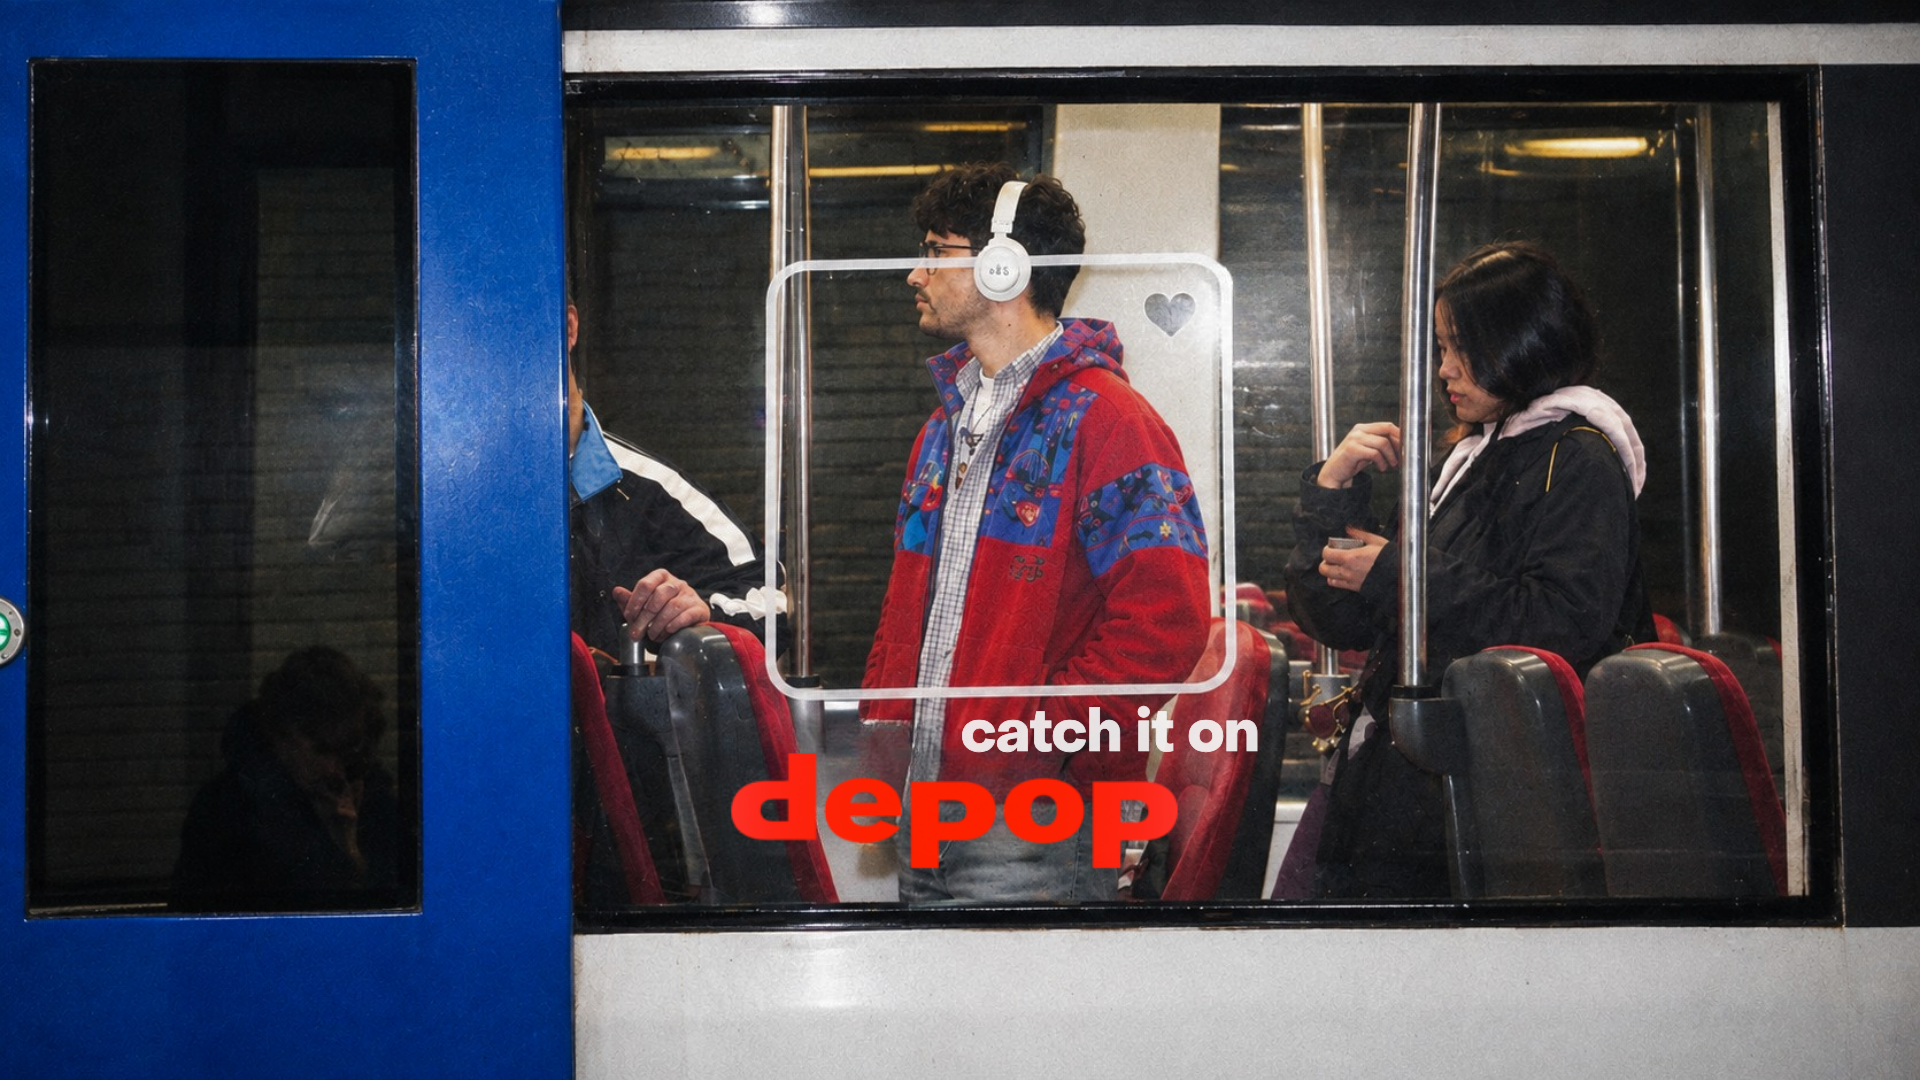
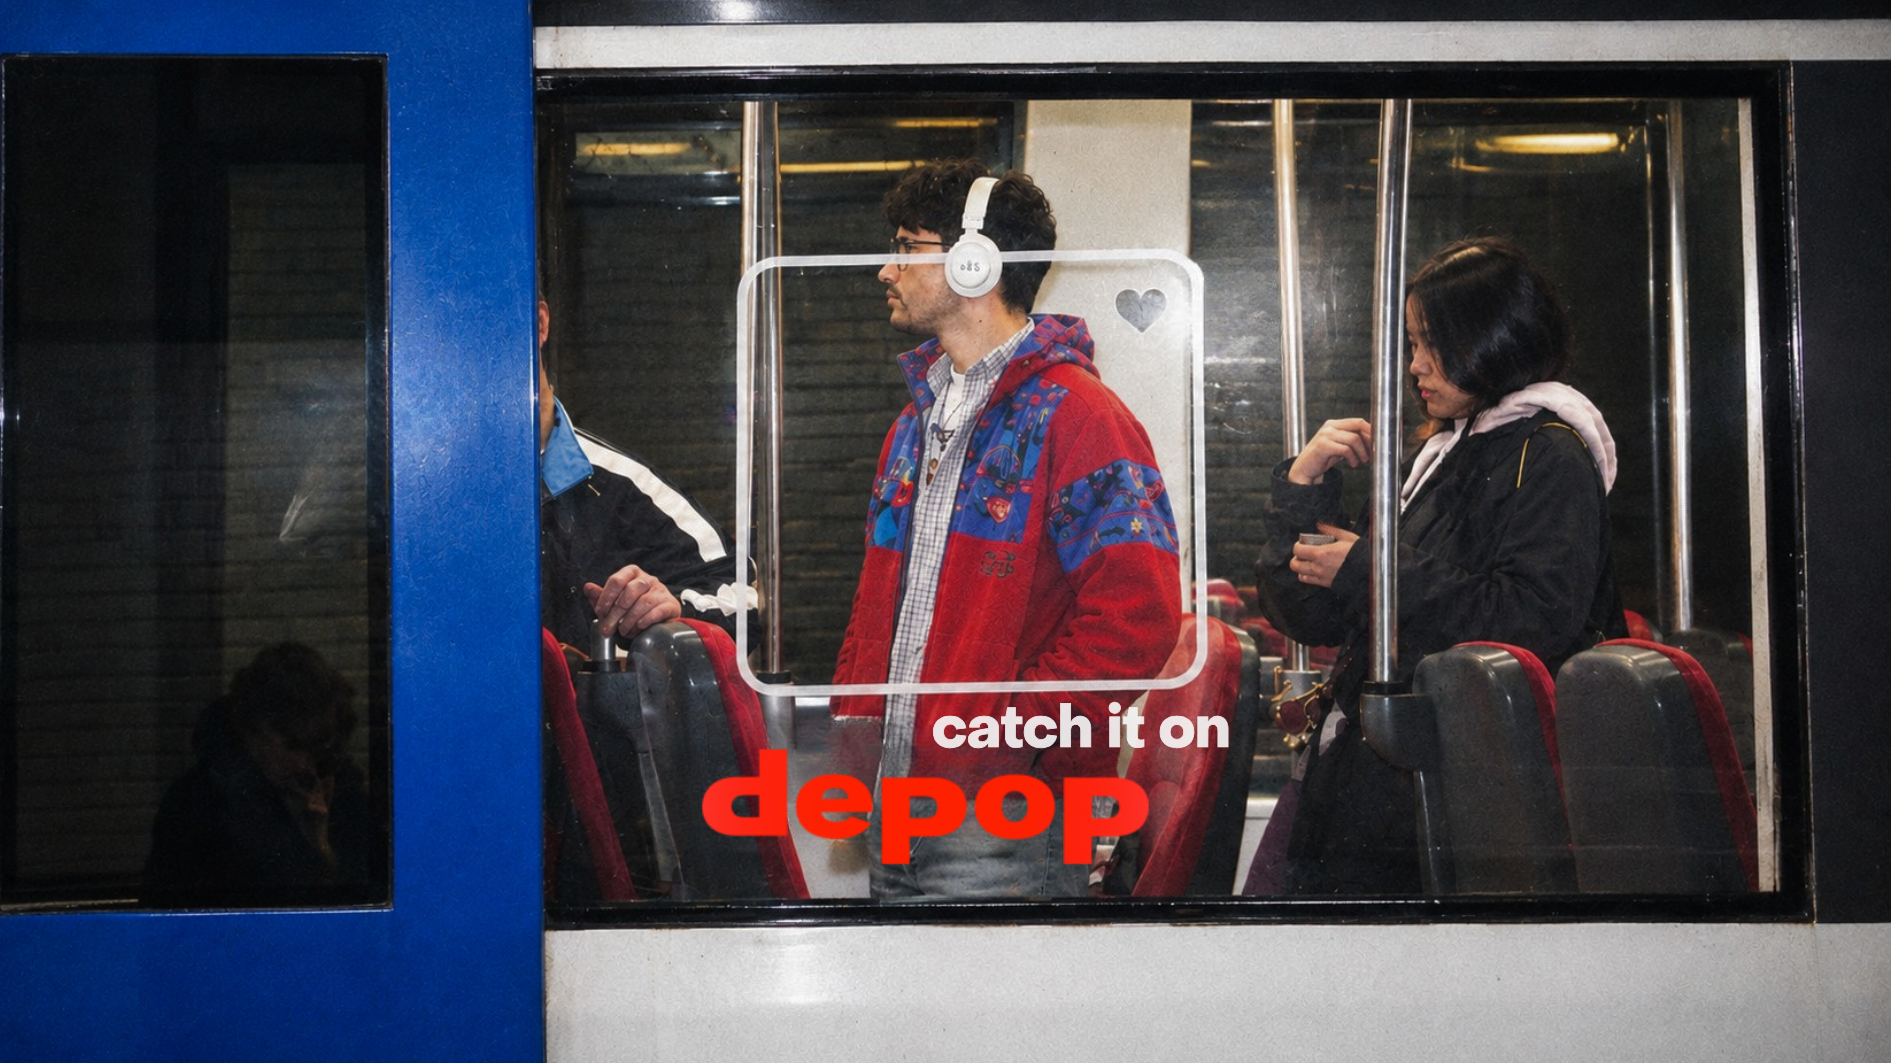
Add files via upload

Changed region(s): [[0.0, 0.0, 1.0, 1.0], [0.7488, 0.714, 0.78, 0.7451], [0.4056, 0.9313, 0.4368, 0.9624]]

diff --git a/depop.html b/depop.html
@@ -74,8 +74,19 @@
 
   /* ---------- Hero: dark full-bleed background photo behind nav + header + intro ---------- */
   .hero-bg{
+    --bg-crop:160px;            /* how much of the top of the background photo is cropped away */
     position:relative;
-    background:#0e0d0a url('depop-bg-platform copy.jpg') center 30% / cover no-repeat;
+    isolation:isolate;
+    overflow:hidden;
+    background:#0e0d0a;
+  }
+  .hero-bg::after{
+    content:'';
+    position:absolute;
+    left:0; right:0; bottom:0;
+    top:calc(-1 * var(--bg-crop));
+    z-index:-1;
+    background:url('depop-bg-platform copy.jpg') var(--bg-pos, center 30%) / cover no-repeat;
     will-change:background-position;
   }
   .hero-bg::before{
@@ -97,7 +108,7 @@
   .hero-bg .more-work span{ color:var(--white); }
   .hero-bg .project-tag,
   .hero-bg .depop-link{ color:#ff542a; }
-  .footer-bg{ padding:78px 0 24px; background-position:center 75%; }
+  .footer-bg{ padding:78px 0 24px; --bg-crop:0px; --bg-pos:center 75%; }
 
   /* ---------- Nav (identical to STAIN page) ---------- */
   .nav{
@@ -159,7 +170,7 @@
 
   /* ---------- Intro: side-by-side images + copy ---------- */
   .intro{
-    max-width:940px;
+    max-width:620px;
     margin:16px auto 0;
     padding:0 28px 80px;
     display:flex;
@@ -184,9 +195,9 @@
   .intro-visual .v-main{ display:block; }
   .intro-visual .v-side{
     position:absolute;
-    width:17%;
-    right:-3%;
-    bottom:-12%;
+    width:24%;
+    right:-6%;
+    bottom:-14%;
     z-index:2;
   }
   .intro-credit{
@@ -566,7 +577,7 @@
       function animate(){
         current += (target - current) * 0.06; // easing so it "catches up" as scrolling slows
         heroBgs.forEach(function(el){
-          el.style.backgroundPosition = 'center calc(' + el.dataset.baseY + '% + ' + current.toFixed(2) + 'px)';
+          el.style.setProperty('--bg-pos', 'center calc(' + el.dataset.baseY + '% + ' + current.toFixed(2) + 'px)');
         });
         if(Math.abs(target - current) > 0.05){
           requestAnimationFrame(animate);
